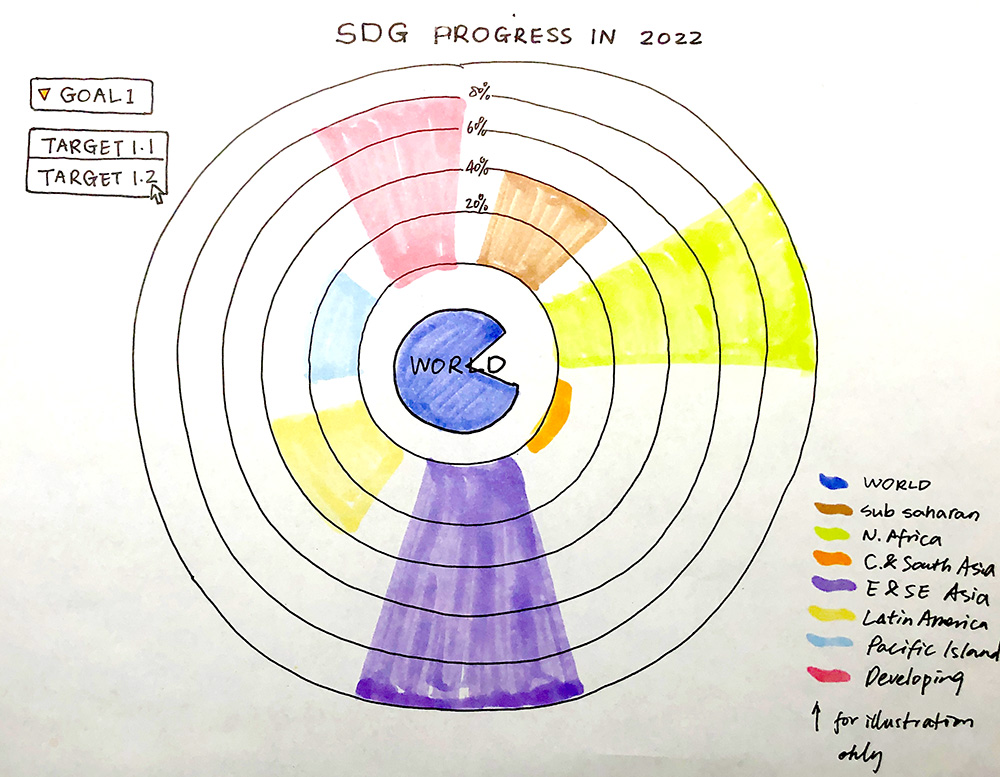
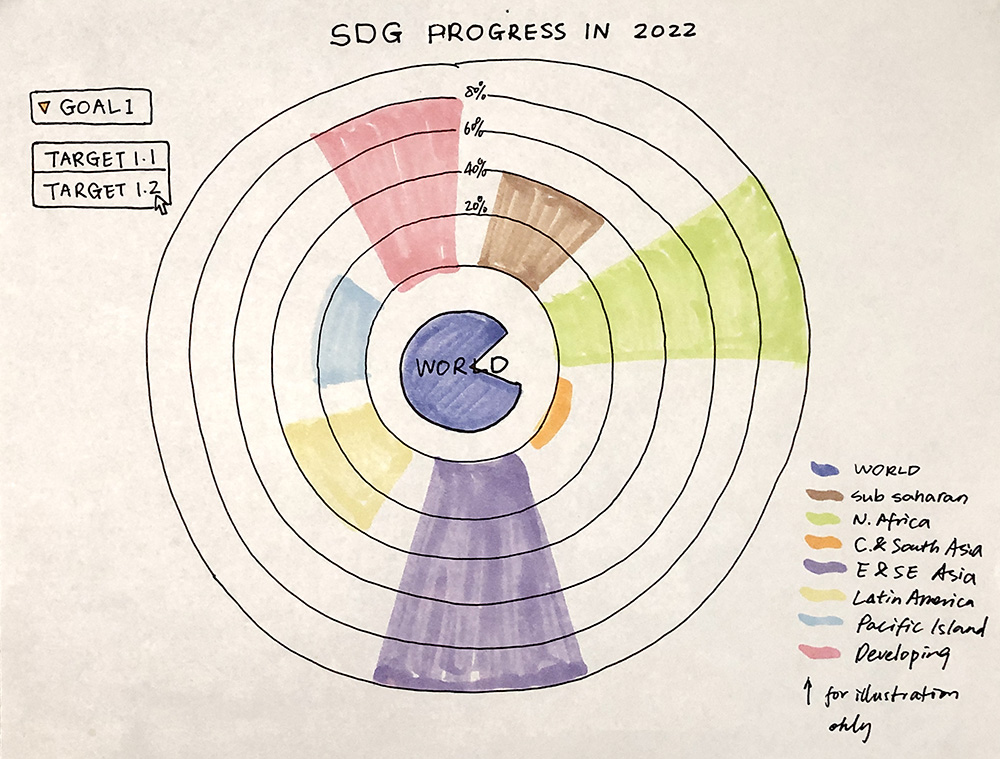
update

diff --git a/week03_sketches/README.md b/week03_sketches/README.md
@@ -6,6 +6,7 @@ My overall goal is to provide a bird's eye view of the SDG progress so far eithe
 Visualize SDG progress made so far by all regions and the world as a whole; Users can toggle to zoom in on progress made for a particular SDG target.
 <img src="./Sketch1.JPG" width="800" alt="Sketch1">
 - Dataset: Progress-Chart-2022
+<img src="./Progress_Chart.png" width="800" alt="Progress Chart">
 - Properties of the dataset: The dataset is about right size but data needs to be manually converted from an infographic of gauge charts.
 - Visualization method: A sun burst chart is selected for comparison of different regions all in one chart. 
 
@@ -14,6 +15,7 @@ Visualize SDG progress made so far by all regions and the world as a whole; User
 Compare the proportion of population covered by social protection by groups of people in need at the regional level. 
 <img src="./Sketch2.JPG" width="800" alt="Sketch2">
 - Dataset: Indicator 1.3.1: Proportion of population covered by social protection floors/systems, by distinguishing children, unemployed persons, older persons, persons with disabilities, and the vulnerable.
+<img src="./Social_Protection_Chart.png" width="800" alt="Social Protection Chart">
 - Properties of the dataset: The dataset is about the right size.
 - Visualization method: Curved parallel coordinate plot is selected for showing overall trends while allowing highlighting trends in individual regions. 
 
